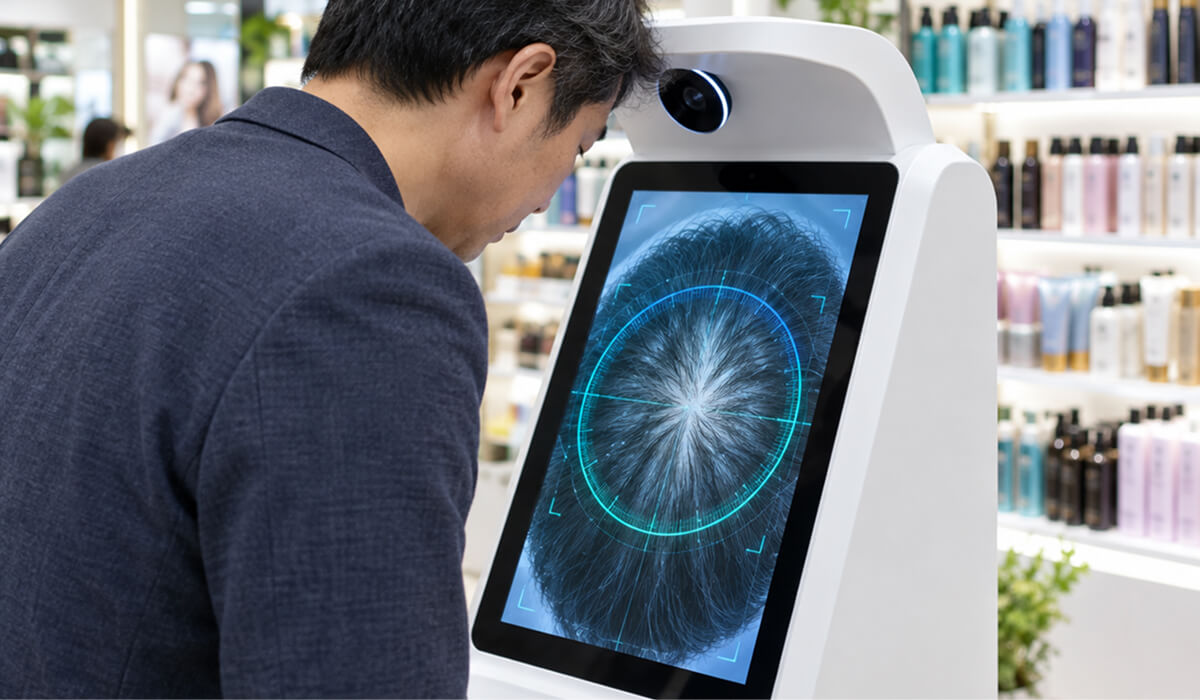
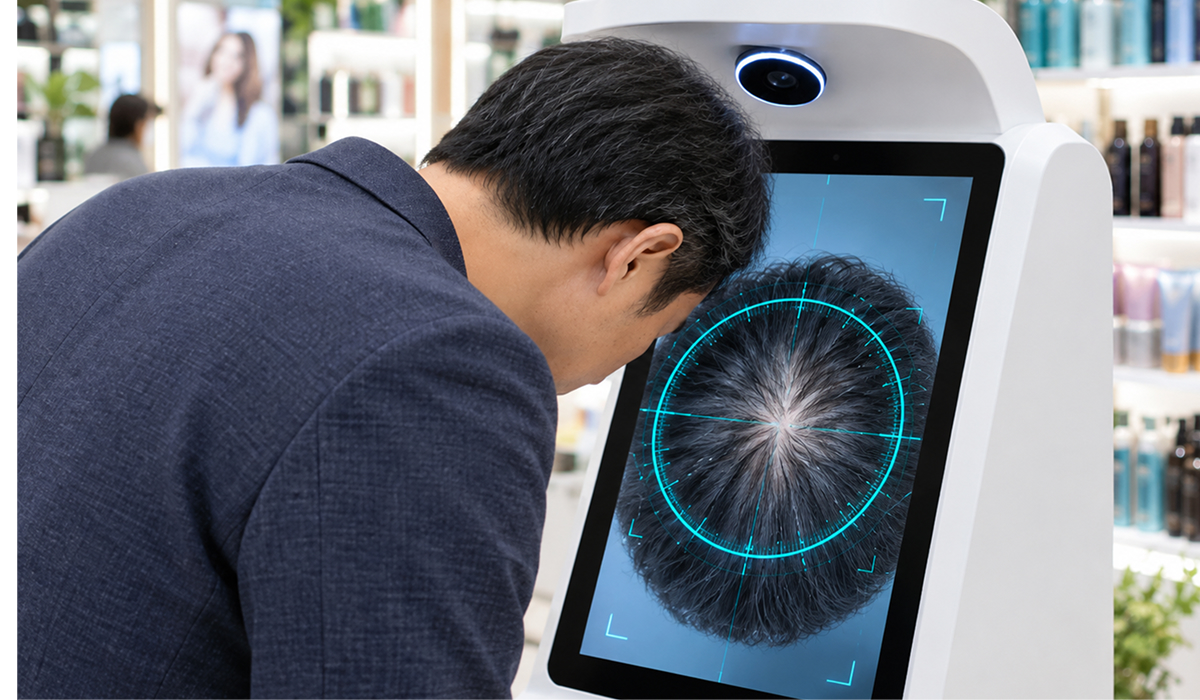
thumb update

diff --git a/yco/API_Hair_Density_Detection/index.html b/yco/API_Hair_Density_Detection/index.html
@@ -280,10 +280,10 @@
     <h2 class="section-title mb-left" style="margin-bottom:20px;">Hair Density Classification From One Photo</h2>
     <p class="intro-text mb-left intro-gap--sm">The AI Hair Density Detection API analyzes scalp visibility and hair distribution from a single photo to classify hair density across four levels. Bring trichoscopy-inspired hair density insights into digital experiences without specialized hardware, and use the results to power hyper-personalized haircare at scale.</p>
     <div class="levelcards">
-      <figure class="levelcards__card"><div class="levelcards__media"><img src="assets/project/UseCase/API Hair Density Detection_thumb_01.jpg" alt="Level 1 : Extremely Low Density"></div><figcaption>Level 1 : Extremely Low Density</figcaption></figure>
-      <figure class="levelcards__card"><div class="levelcards__media"><img src="assets/project/UseCase/API Hair Density Detection_thumb_02.jpg" alt="Level 2 : Low Density"></div><figcaption>Level 2 : Low Density</figcaption></figure>
-      <figure class="levelcards__card"><div class="levelcards__media"><img src="assets/project/UseCase/API Hair Density Detection_thumb_03.jpg" alt="Level 3 : Medium Density"></div><figcaption>Level 3 : Medium Density</figcaption></figure>
-      <figure class="levelcards__card"><div class="levelcards__media"><img src="assets/project/UseCase/API Hair Density Detection_thumb_04.jpg" alt="Level 4 : High Density"></div><figcaption>Level 4 : High Density</figcaption></figure>
+      <figure class="levelcards__card"><div class="levelcards__media"><img src="assets/project/UseCase/API Hair Density Detection_thumb_01.png" alt="Level 1 : Extremely Low Density"></div><figcaption>Level 1 : Extremely Low Density</figcaption></figure>
+      <figure class="levelcards__card"><div class="levelcards__media"><img src="assets/project/UseCase/API Hair Density Detection_thumb_02.png" alt="Level 2 : Low Density"></div><figcaption>Level 2 : Low Density</figcaption></figure>
+      <figure class="levelcards__card"><div class="levelcards__media"><img src="assets/project/UseCase/API Hair Density Detection_thumb_03.png" alt="Level 3 : Medium Density"></div><figcaption>Level 3 : Medium Density</figcaption></figure>
+      <figure class="levelcards__card"><div class="levelcards__media"><img src="assets/project/UseCase/API Hair Density Detection_thumb_04.png" alt="Level 4 : High Density"></div><figcaption>Level 4 : High Density</figcaption></figure>
     </div>
   </div>
 </section>
